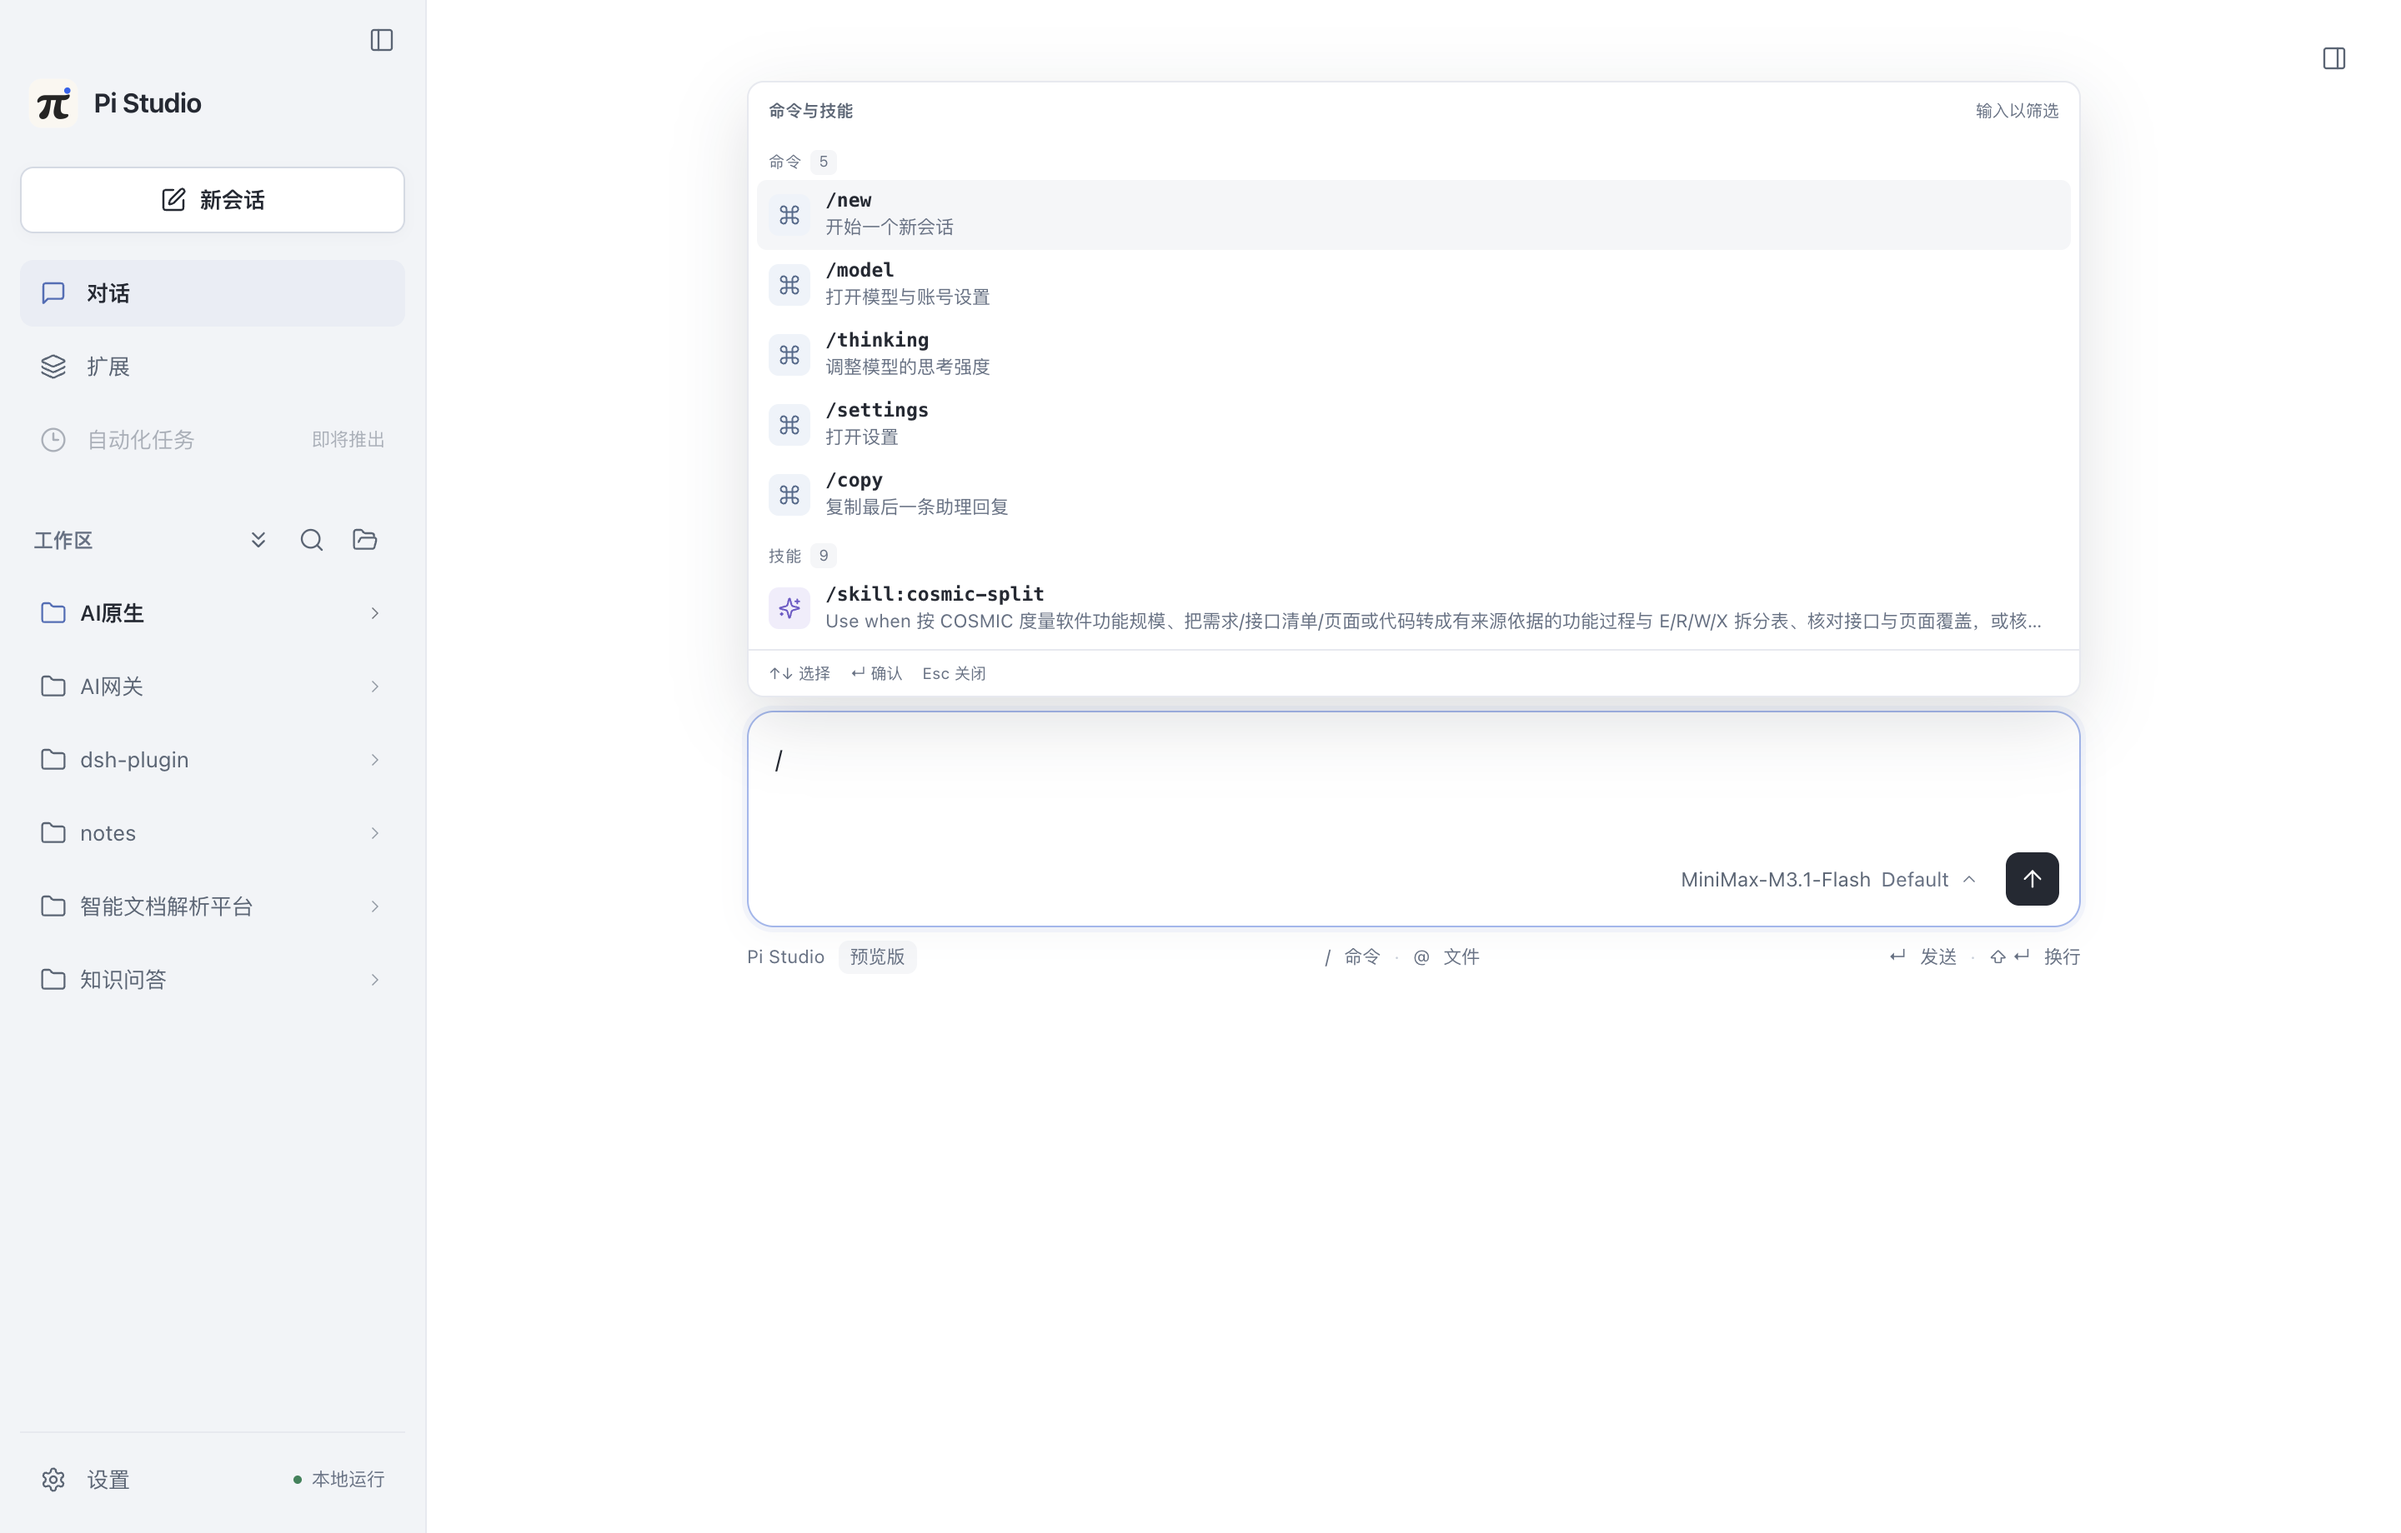
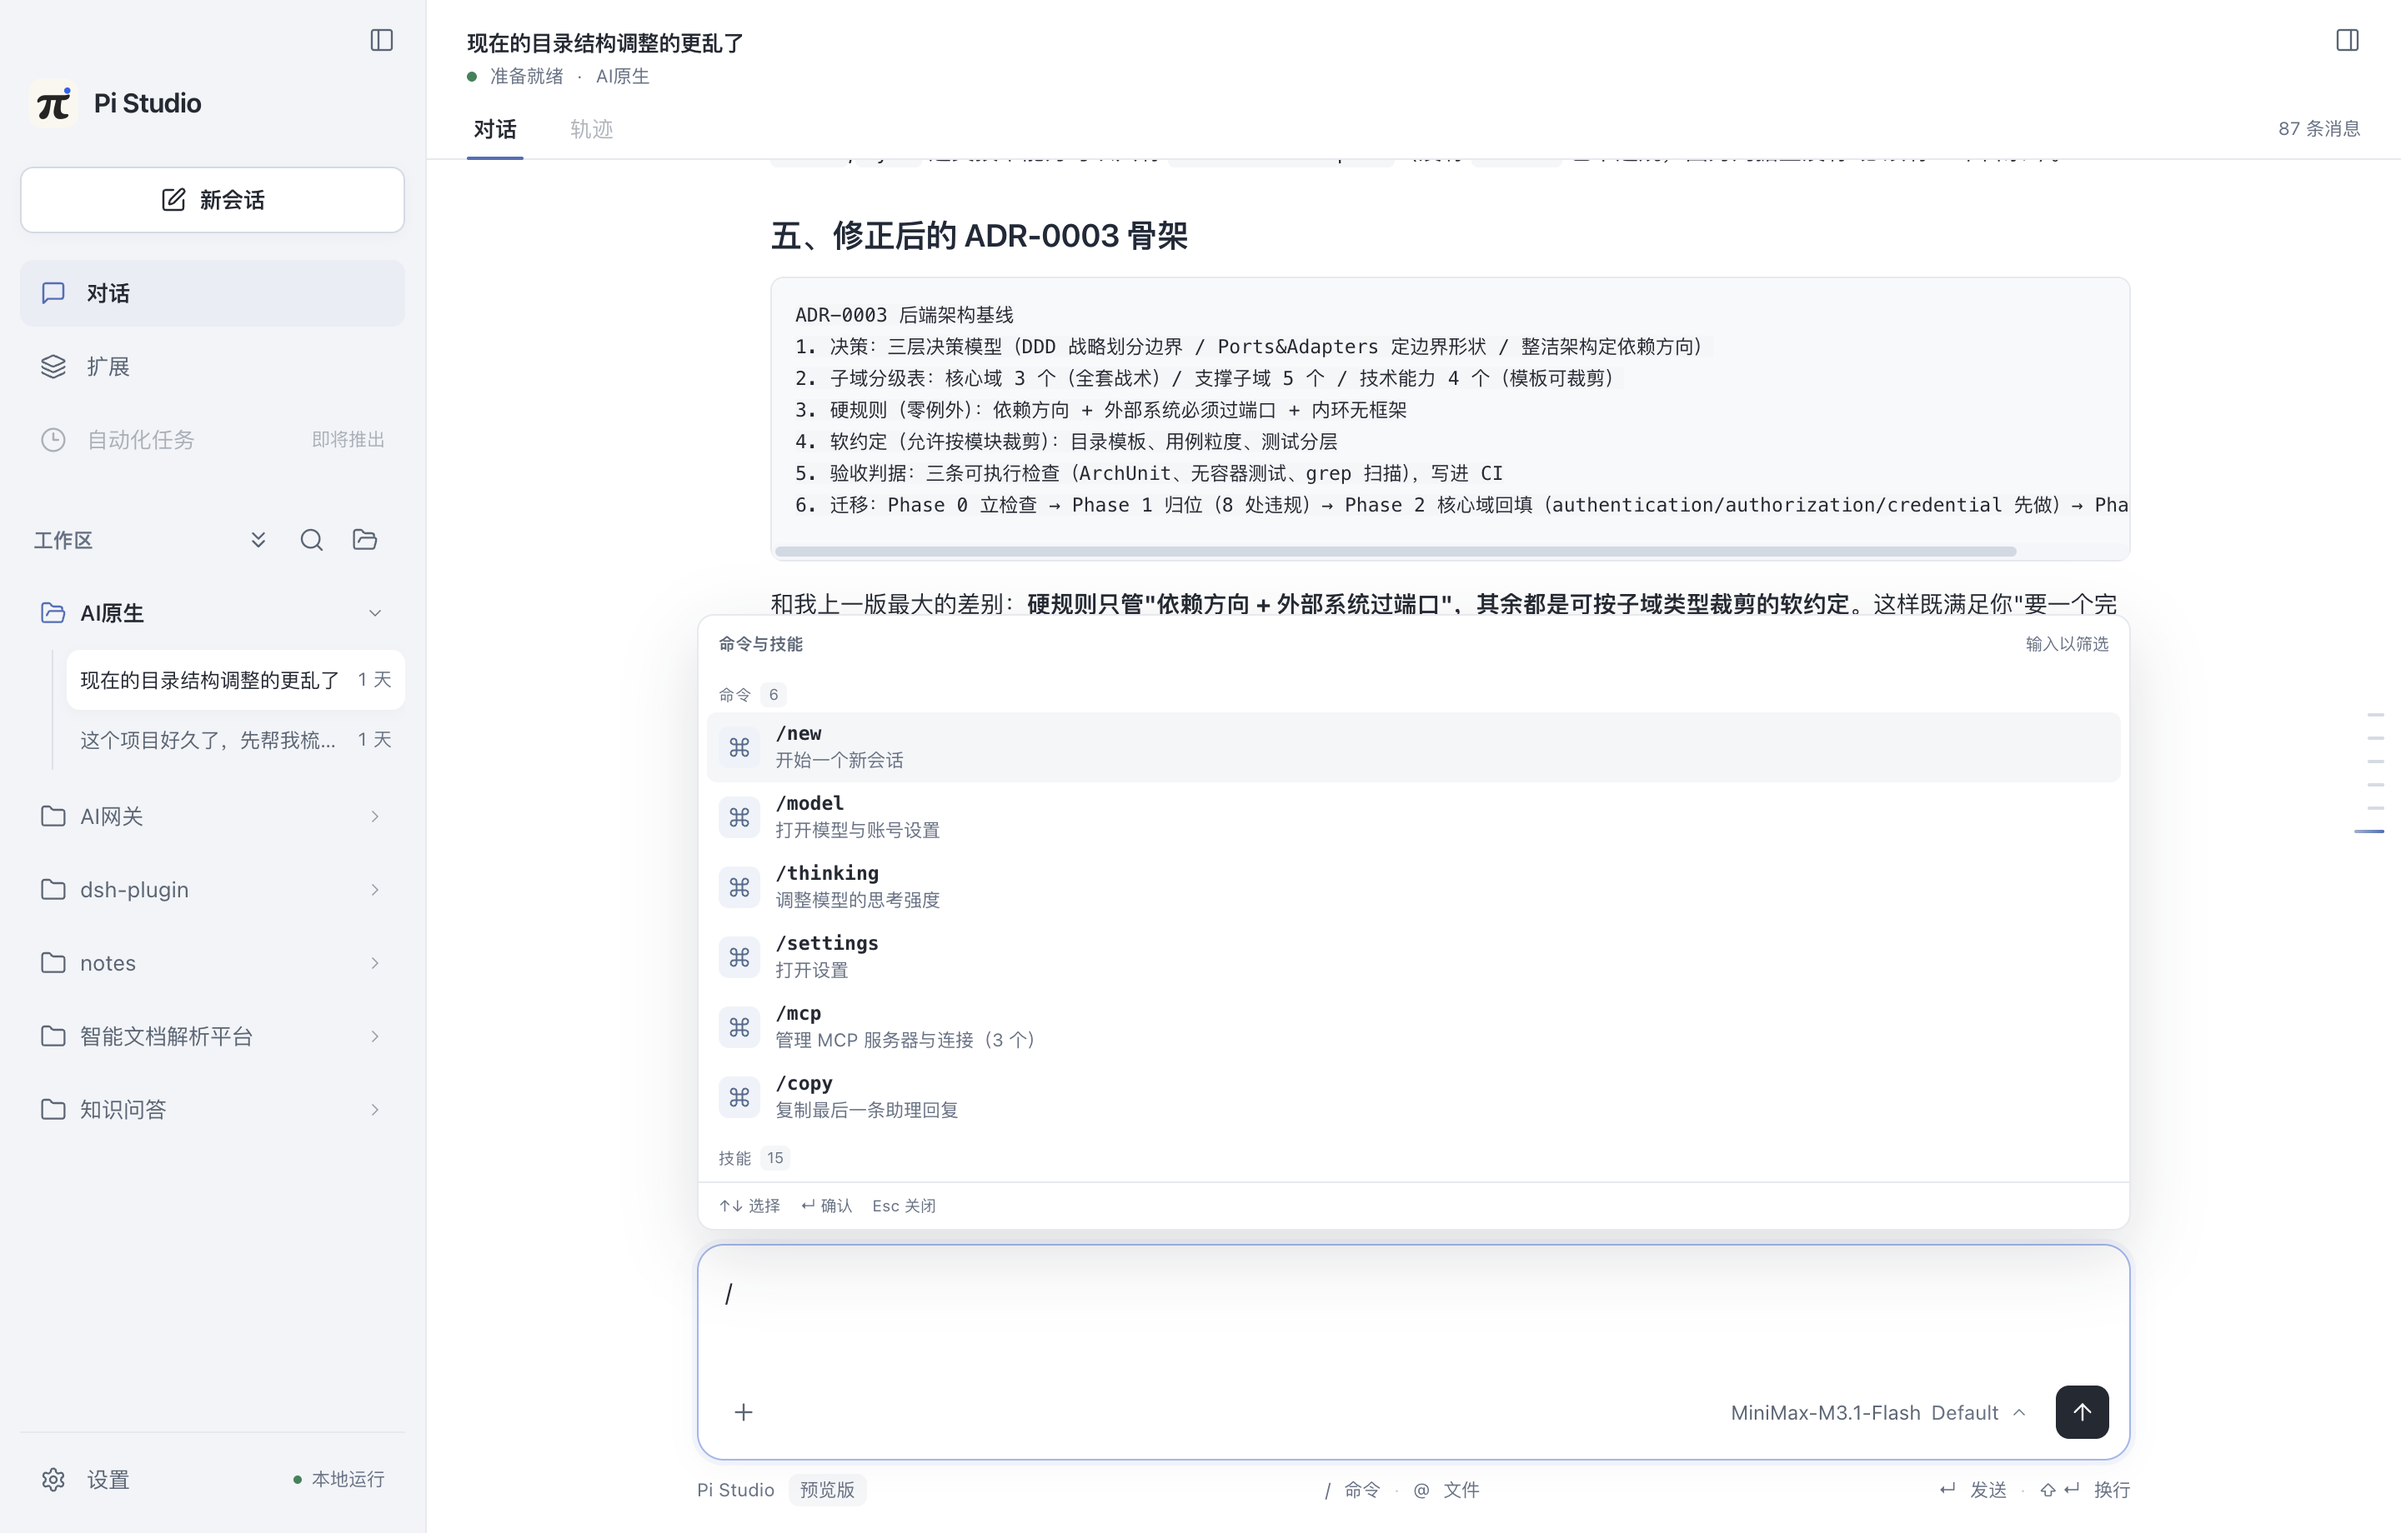
feat(composer): 斜杠菜单顶部展示 MCP 与技能

diff --git a/web/src/App.tsx b/web/src/App.tsx
@@ -806,6 +806,7 @@ export function App() {
       return true;
     }
     if (name === 'settings') { await openSettings(); return true; }
+    if (name === 'mcp') { await openSettings('mcp'); return true; }
     if (name === 'model' || name === 'thinking') { await openSettings('models'); return true; }
     if (name === 'copy') {
       const last = [...messages].reverse().find((message) => message.role === 'assistant');
@@ -907,7 +908,7 @@ export function App() {
     const text = prompt.trim();
     if ((!text && composerAttachments.length === 0) || busy) return;
     if (composerAttachments.length === 0 && text.startsWith('/')) {
-      const builtin = text.match(/^\/(new|settings|model|thinking|copy)(?:\s|$)/);
+      const builtin = text.match(/^\/(new|settings|model|thinking|copy|mcp)(?:\s|$)/);
       if (builtin && await executeBuiltinCommand(builtin[1])) {
         setPrompt('');
         setComposerMenu(null);
@@ -1522,9 +1523,9 @@ export function App() {
               <div className="composer-picker-scroll">
                 {composerMenu.kind === 'slash' && ([
                   { source: 'builtin', label: '命令' },
-                  { source: 'extension', label: '扩展命令' },
-                  { source: 'prompt', label: '提示模板' },
                   { source: 'skill', label: '技能' },
+                  { source: 'prompt', label: '提示模板' },
+                  { source: 'extension', label: '扩展命令' },
                 ] as const).map((group) => {
                   const items = composerCommandOptions.filter((command) => command.source === group.source);
                   if (items.length === 0) return null;
